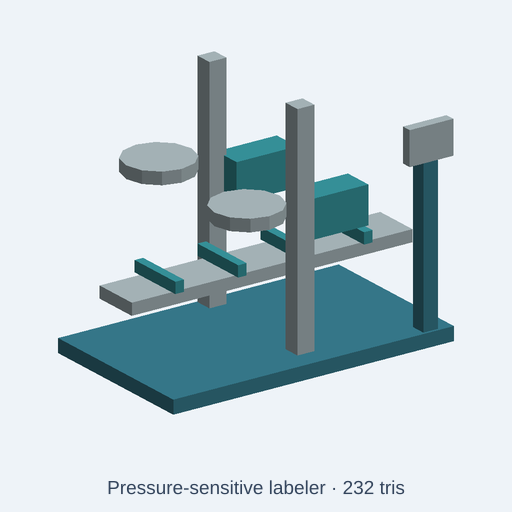
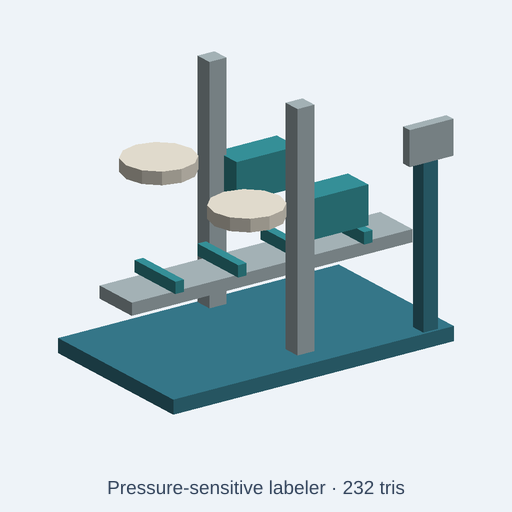
fix(catalog): render the labeler's label rolls as paper stock, not stainless
The front and back rolls of the pressure-sensitive labeler are wound label
web, the stock the machine applies. Their part names matched no finish rule,
so they fell back to stainlessSteel and rendered as two grey steel discs.
Add a labelStock colour control (#efe9da, "Paper label stock") and route
both rolls to it; sanitaryLine and legacyPlant set it.

Geometry, part names and the triangle count (232 / 2,200) are unchanged.
The new GLB colour test fails on the old source and passes after the fix.

Changed region(s): [[0.2188, 0.25, 0.4062, 0.375], [0.4062, 0.3438, 0.5625, 0.4688]]

diff --git a/tests/integration/catalog/pressureSensitiveLabelerRollMaterial.test.ts b/tests/integration/catalog/pressureSensitiveLabelerRollMaterial.test.ts
@@ -1,0 +1,61 @@
+// SPDX-License-Identifier: MIT
+// Copyright (c) 2026 Andrii Shylenko and kernelCAD contributors
+
+import { resolve } from 'node:path';
+import { NodeIO } from '@gltf-transform/core';
+import { beforeAll, describe, expect, it } from 'vitest';
+import { buildCatalogAssetWithGlb } from '../../../src/agent/catalog/buildCatalog';
+import { initOcct } from '../../../src/kernel/backends/occt/occtBackend';
+
+const repoRoot = resolve(import.meta.dirname, '../../..');
+const source = 'catalog/kits/beverage-bottling-line/pressure-sensitive-labeler.kcad.ts';
+
+beforeAll(async () => {
+  await initOcct();
+}, 120_000);
+
+describe('beverage-bottling-line/pressure-sensitive-labeler materials', () => {
+  it('renders the label rolls as paper label stock, not stainless steel', async () => {
+    const { asset, glb } = await buildCatalogAssetWithGlb(repoRoot, source);
+
+    expect(asset.stats.triangles).toBeLessThanOrEqual(asset.triangleBudget);
+    expect(asset.params.filter((param) => param.type === 'color').map((param) => param.name)).toEqual([
+      'stainlessSteel', 'powderCoat', 'foodPolymer', 'labelStock',
+    ]);
+    expect(Object.keys(asset.presets)).toEqual(['sanitaryLine', 'legacyPlant']);
+
+    const document = await new NodeIO().readBinary(glb);
+    const nodes = document.getRoot().listNodes();
+    const colorsFor = (name: string) => {
+      const node = nodes.find((candidate) => candidate.getName() === name);
+      return node?.getMesh()?.listPrimitives().flatMap((primitive) => {
+        const vertexColors = primitive.getAttribute('COLOR_0');
+        if (vertexColors !== null) {
+          return Array.from({ length: vertexColors.getCount() }, (_, index) => {
+            const color = vertexColors.getElement(index, []);
+            return color.slice(0, 3).map((channel) =>
+              channel <= 0.0031308 ? 12.92 * channel : 1.055 * channel ** (1 / 2.4) - 0.055,
+            );
+          });
+        }
+        const material = primitive.getMaterial();
+        return material === null ? [] : [material.getBaseColorFactor().slice(0, 3)];
+      }) ?? [];
+    };
+    const matches = (hex: string) => {
+      const expected = [1, 3, 5].map((shift) => parseInt(hex.slice(shift, shift + 2), 16) / 255);
+      return (color: number[]) => expected.every((channel, index) =>
+        Math.abs(channel - color[index]!) < 0.015,
+      );
+    };
+
+    for (const roll of ['front-roll', 'back-roll']) {
+      const colors = colorsFor(roll);
+      expect(colors.length).toBeGreaterThan(0);
+      expect(colors.every(matches('#efe9da')), `${roll} should be paper label stock`).toBe(true);
+    }
+    const conveyor = colorsFor('conveyor');
+    expect(conveyor.length).toBeGreaterThan(0);
+    expect(conveyor.every(matches('#aebdc1')), 'conveyor should stay stainless').toBe(true);
+  }, 120_000);
+});

diff --git a/catalog/kits/beverage-bottling-line/pressure-sensitive-labeler.kcad.ts b/catalog/kits/beverage-bottling-line/pressure-sensitive-labeler.kcad.ts
@@ -5,7 +5,7 @@ meta({
   name: "pressure-sensitive-labeler",
   license: 'CC0-1.0',
   title: "Pressure-sensitive labeler",
-  description: "Front-and-back label applicators with tamp pads, web rolls, bottle guides, and HMI stand. Knobs: overall scale and color controls for stainless steel, powder-coated steel, and food-grade polymer.",
+  description: "Front-and-back label applicators with tamp pads, web rolls, bottle guides, and HMI stand. Knobs: overall scale and color controls for stainless steel, powder-coated steel, food-grade polymer, and paper label stock.",
   tags: ['beverage bottling', 'packaging line', 'food manufacturing', 'low poly', 'CC0'],
   kit: 'beverage-bottling-line',
   category: 'structure',
@@ -18,17 +18,20 @@ const scale = param('scale', 1, { label: 'Overall scale', min: 0.65, max: 1.3, s
 const stainlessSteel = param('stainlessSteel', '#aebdc1', { label: 'Stainless steel' });
 const powderCoat = param('powderCoat', '#397e91', { label: 'Powder-coated steel' });
 const foodPolymer = param('foodPolymer', '#3999a1', { label: 'Food-grade polymer' });
+const labelStock = param('labelStock', '#efe9da', { label: 'Paper label stock' });
 
 presets({
   sanitaryLine: {
     stainlessSteel: '#d2dfe1',
     powderCoat: '#4b95a4',
     foodPolymer: '#2c828c',
+    labelStock: '#f6f2e8',
   },
   legacyPlant: {
     stainlessSteel: '#858f91',
     powderCoat: '#315b70',
     foodPolymer: '#286c75',
+    labelStock: '#ddd4bd',
   },
 });
 const boxPart = (x:number,y:number,z:number,w:number,d:number,h:number) => box(w,d,h,true).translate(x,y,z+h/2).scale(scale);
@@ -37,6 +40,8 @@ const cylinderPart = (x:number,y:number,z:number,h:number,r:number,n=10) => cyli
 const p = assembly("pressure-sensitive-labeler");
 const finishPart = (name: string, shape: ReturnType<typeof boxPart>) => {
   const component = name.toLowerCase();
+  // The front and back rolls are wound label web, not machined steel discs.
+  if (/roll/i.test(component)) return shape.color(labelStock);
   if (/belt|guide|film|web|label|pad|seal|grip|cap|bottle|liner|tray|hose|cleat|divider|wheel|wrap|tape|suction|sleeve/i.test(component)) return shape.color(foodPolymer);
   if (/base|leg|foot|frame|support|stand|control|housing|cabinet|motor|drive|beam|panel|hood|skid|mount|platform|guard|rail|post|lift|jacket/i.test(component)) return shape.color(powderCoat);
   return shape.color(stainlessSteel);
